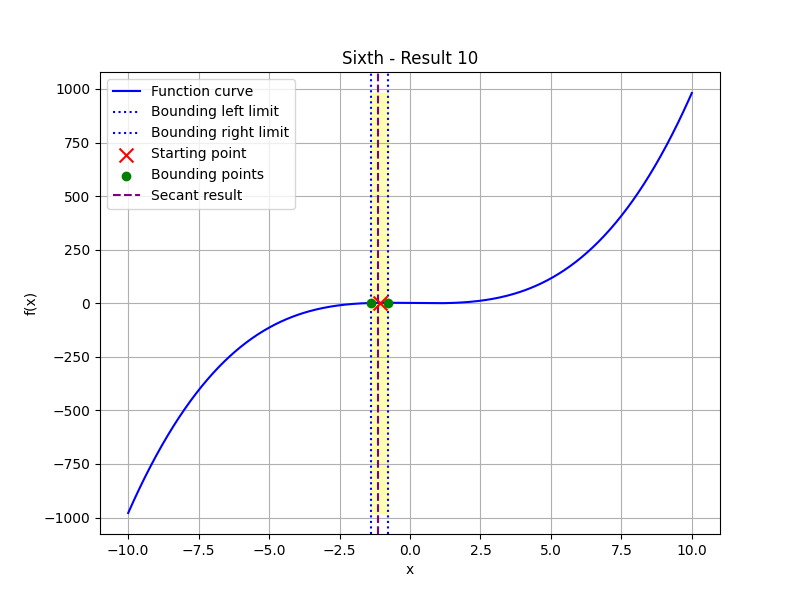
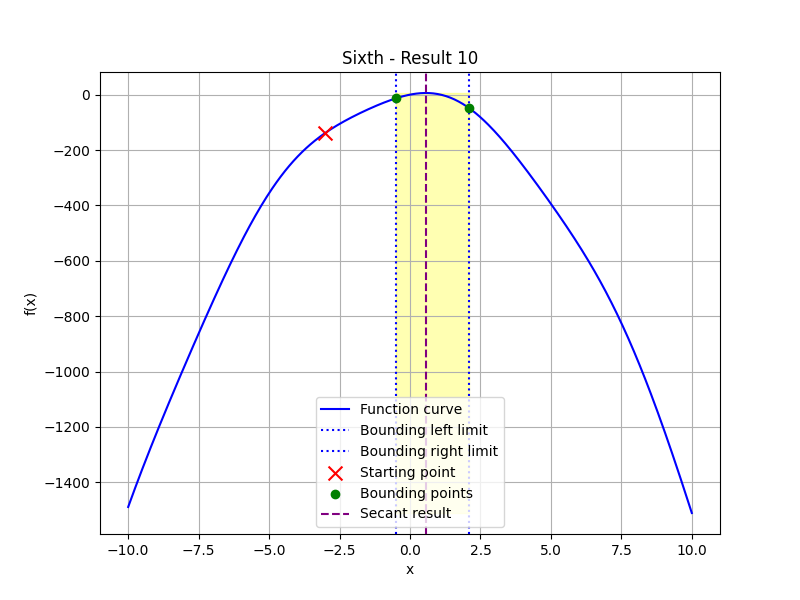
Final

diff --git a/testtrajectory.py b/testtrajectory.py
@@ -1,0 +1,165 @@
+import numpy as np
+import matplotlib.pyplot as plt
+import random
+import os
+
+# Function to minimize/maximize
+def func(x, func_id):
+    if func_id == 1:
+        return -((2 * x - 5) ** 4) + ((x ** 2 - 1) ** 3)
+    elif func_id == 2:
+        return -(8 + x ** 3 - 2 * x - 2 * np.exp(x))
+    elif func_id == 3:
+        return -(4 * x * np.sin(x))
+    elif func_id == 4:
+        return 2 * (x - 3) ** 2 + np.exp(0.5 * x ** 2)
+    elif func_id == 5:
+        return x ** 2 - 10 * np.exp(0.1 * x)
+    elif func_id == 6:
+        return -(20 * np.sin(x) - 15 * x ** 2)
+
+# Derivative of the function (for secant method)
+def func_derivative(x, func_id):
+    if func_id == 1:
+        return -8 * ((2 * x - 5) ** 3) + 6 * x * ((x ** 2 - 1) ** 2)
+    elif func_id == 2:
+        return -3 * x ** 2 + 2 + 2 * np.exp(x)
+    elif func_id == 3:
+        return -4 * np.sin(x) - 4 * x * np.cos(x)
+    elif func_id == 4:
+        return 4 * (x - 3) + x * np.exp(0.5 * x ** 2)
+    elif func_id == 5:
+        return 2 * x - np.exp(0.1 * x)
+    elif func_id == 6:
+        return -20 * np.cos(x) + 30 * x
+
+# Bounding Phase Method
+def bounding_phase(lb, ub, delta):
+    x = random.uniform(lb, ub)  # Initial random point
+    print(f"Random starting point: {x}")
+
+    dx = delta
+    x_lb = max(x - dx, lb)
+    x_ub = min(x + dx, ub)
+    f_x = func(x, func_id)
+    f_x_lb = func(x_lb, func_id)
+    f_x_ub = func(x_ub, func_id)
+    k = 0
+
+    while x_ub <= ub and x_lb >= lb:
+        dx = abs(dx) if (f_x <= f_x_lb and f_x >= f_x_ub) else -abs(dx)
+
+        k += 1
+        x_new = x + (2 ** k) * dx
+        if x_new > ub:
+            x_new = ub
+        if x_new < lb:
+            x_new = lb
+
+        if func(x_new, func_id) > f_x:
+            return x, x_new
+
+        x = x_new
+        x_ub = min(x + abs(dx), ub)
+        x_lb = max(x - abs(dx), lb)
+        f_x = func(x, func_id)
+        f_x_lb = func(x_lb, func_id)
+        f_x_ub = func(x_ub, func_id)
+
+    return x, x
+
+# Secant Method
+def secant_method(x1, x2, epsilon):
+    iterations = []
+    z = None
+    while True:
+        z = x2 - func_derivative(x2, func_id) / ((func_derivative(x2, func_id) - func_derivative(x1, func_id)) / (x2 - x1))
+        iterations.append((x1, x2, z))
+
+        if abs(func_derivative(z, func_id)) <= epsilon:
+            break
+
+        if func_derivative(z, func_id) < 0:
+            x1 = z
+        else:
+            x2 = z
+    
+    return z, iterations
+
+# Helper function to extend line till it intersects the x-axis
+def extend_to_x_axis(x1, y1, x2, y2):
+    if x1 == x2:  # Avoid division by zero
+        return x1
+    m = (y2 - y1) / (x2 - x1)  # Slope of the line
+    c = y1 - m * x1  # y = mx + c
+    return -c / m  # Intersection point with x-axis (y = 0)
+
+# Plot function and method points
+def plot_bounding_and_secant(func_id, lb, ub, delta, epsilon):
+    x = np.linspace(lb, ub, 400)
+    y = func(x, func_id)
+    
+    # Plot the function
+    fig, ax = plt.subplots()
+    ax.plot(x, y, label='f(x)', color='blue')
+    
+    # Perform bounding phase method
+    x1, x2 = bounding_phase(lb, ub, delta)
+    ax.scatter([x1, x2], [func(x1, func_id), func(x2, func_id)], color='red', marker='o', label='Bounding Phase Points')
+    print(f"Bounding phase result: [{x1}, {x2}]")
+    
+    # Perform secant method
+    result, iterations = secant_method(x1, x2, epsilon)
+
+    # Plot secant method progress
+    for i, (x1_i, x2_i, z_i) in enumerate(iterations):
+        # Plot the secant line between x1 and x2
+        ax.plot([x1_i, x2_i], [func(x1_i, func_id), func(x2_i, func_id)], 'ro--', label=f'Secant iteration {i+1}' if i == 0 else "")
+        
+        # Find the intersection of the secant line with the x-axis
+        intersection = extend_to_x_axis(x1_i, func(x1_i, func_id), x2_i, func(x2_i, func_id))
+        
+        # Plot the intersection point on the x-axis
+        ax.scatter([intersection], [0], color='green', marker='x', s=100, label=f'z_{i+1} on x-axis')
+        
+        # Draw a vertical line from the intersection to the curve
+        ax.plot([intersection, intersection], [0, func(intersection, func_id)], 'g--')
+        ax.scatter([intersection], [func(intersection, func_id)], color='green', marker='x', s=100)
+
+    # Final point
+    ax.scatter([result], [func(result, func_id)], color='purple', marker='*', s=150, label='Final Secant Result')
+
+    # Improve readability by limiting the number of legends and avoiding overlap
+    handles, labels = ax.get_legend_handles_labels()
+    unique_labels = list(dict.fromkeys(labels))  # Remove duplicate labels
+    ax.legend(handles[:len(unique_labels)], unique_labels)
+
+    ax.set_title(f'Bounding Phase & Secant Method for Function {func_id}')
+    ax.set_xlabel('x')
+    ax.set_ylabel('f(x)')
+    plt.axhline(0, color='black', lw=0.5, ls='--')  # Add x-axis line
+    plt.axvline(0, color='black', lw=0.5, ls='--')  # Add y-axis line
+    plt.savefig(f'plots/Function_{func_id}.png')
+    plt.close()
+
+# Create a directory for saving plots
+if not os.path.exists('plots'):
+    os.makedirs('plots')
+
+# Parameters for the methods
+delta = 0.5  # Step size for bounding phase
+epsilon = 1e-6  # Convergence threshold for secant method
+
+# List of function bounds
+function_bounds = [
+    (-10, 0),    # Bounds for Function 1
+    (-2, 1),     # Bounds for Function 2
+    (0.5, np.pi), # Bounds for Function 3
+    (-2, 3),     # Bounds for Function 4
+    (-6, 6),     # Bounds for Function 5
+    (-4, 4)      # Bounds for Function 6
+]
+
+# Iterate through each function and plot results
+for func_id, (lb, ub) in enumerate(function_bounds, start=1):
+    plot_bounding_and_secant(func_id, lb, ub, delta, epsilon)

diff --git a/Trajectory.py b/Trajectory.py
@@ -1,0 +1,125 @@
+import numpy as np
+import matplotlib.pyplot as plt
+import random
+
+# Function to minimize/maximize
+def func(x):
+    return -(20 * np.sin(x) - 15 * x ** 2)
+
+# Derivative of the function (for secant method)
+def func_derivative(x):
+    return -20 * np.cos(x) + 30 * x
+
+# Bounding Phase Method
+def bounding_phase(lb, ub, delta):
+    x = random.uniform(lb, ub)  # Initial random point
+    print(f"Random starting point: {x}")
+    
+    dx = delta
+    x_lb = max(x - dx, lb)
+    x_ub = min(x + dx, ub)
+    f_x = func(x)
+    f_x_lb = func(x_lb)
+    f_x_ub = func(x_ub)
+    k = 0
+
+    while x_ub <= ub and x_lb >= lb:
+        dx = abs(dx) if (f_x <= f_x_lb and f_x >= f_x_ub) else -abs(dx)
+
+        k += 1
+        x_new = x + (2 ** k) * dx
+        if x_new > ub:
+            x_new = ub
+        if x_new < lb:
+            x_new = lb
+
+        if func(x_new) > f_x:
+            return x, x_new
+
+        x = x_new
+        x_ub = min(x + abs(dx), ub)
+        x_lb = max(x - abs(dx), lb)
+        f_x = func(x)
+        f_x_lb = func(x_lb)
+        f_x_ub = func(x_ub)
+
+    return x, x
+
+# Secant Method
+def secant_method(x1, x2, epsilon):
+    iterations = []
+    z = None
+    while True:
+        z = x2 - func_derivative(x2) / ((func_derivative(x2) - func_derivative(x1)) / (x2 - x1))
+        iterations.append((x1, x2, z))
+
+        if abs(func_derivative(z)) <= epsilon:
+            break
+
+        if func_derivative(z) < 0:
+            x1 = z
+        else:
+            x2 = z
+    
+    return z, iterations
+
+# Helper function to extend line till it intersects the x-axis
+def extend_to_x_axis(x1, y1, x2, y2):
+    if x1 == x2:  # Avoid division by zero
+        return x1
+    m = (y2 - y1) / (x2 - x1)  # Slope of the line
+    c = y1 - m * x1  # y = mx + c
+    return -c / m  # Intersection point with x-axis (y = 0)
+
+# Plot function and method points
+def plot_bounding_and_secant(lb, ub, delta, epsilon):
+    x = np.linspace(lb-10, ub+10, 400)
+    y = func(x)
+    
+    # Plot the function
+    fig, ax = plt.subplots()
+    ax.plot(x, y, label='f(x)', color='blue')
+    
+    # Perform bounding phase method
+    x1, x2 = bounding_phase(lb, ub, delta)
+    ax.scatter([x1, x2], [func(x1), func(x2)], color='red', marker='o', label='Bounding Phase Points')
+    print(f"Bounding phase result: [{x1}, {x2}]")
+    
+    # Perform secant method
+    result, iterations = secant_method(x1, x2, epsilon)
+
+    # Plot secant method progress
+    for i, (x1_i, x2_i, z_i) in enumerate(iterations):
+        # Plot the secant line between x1 and x2
+        ax.plot([x1_i, x2_i], [func(x1_i), func(x2_i)], 'ro--', label=f'Secant iteration {i+1}' if i == 0 else "")
+        
+        # Find the intersection of the secant line with the x-axis
+        intersection = extend_to_x_axis(x1_i, func(x1_i), x2_i, func(x2_i))
+        
+        # Plot the intersection point on the x-axis
+        ax.scatter([intersection], [0], color='green', marker='x', s=100, label=f'z_{i+1} on x-axis')
+        
+        # Draw a vertical line from the intersection to the curve
+        ax.plot([intersection, intersection], [0, func(intersection)], 'g--')
+        ax.scatter([intersection], [func(intersection)], color='black', marker='+', s=100)
+
+    # Final point
+    ax.scatter([result], [func(result)], color='purple', marker='*', s=150, label='Final Secant Result')
+
+    # Improve readability by limiting the number of legends and avoiding overlap
+    handles, labels = ax.get_legend_handles_labels()
+    unique_labels = list(dict.fromkeys(labels))  # Remove duplicate labels
+    ax.legend(handles[:len(unique_labels)], unique_labels)
+
+    ax.set_title('Bounding Phase & Secant Method with Extended Lines')
+    ax.set_xlabel('x')
+    ax.set_ylabel('f(x)')
+    plt.show()
+
+# Example usage
+lb = -4  # Lower bound
+ub = 4  # Upper bound
+delta = 0.5  # Step size for bounding phase
+epsilon = 1e-6  # Convergence threshold for secant method
+
+plot_bounding_and_secant(lb, ub, delta, epsilon)

diff --git a/Plotting.py b/Plotting.py
@@ -105,23 +105,19 @@ functions = {
         ],
     },
     "Sixth": {
-        "func": lambda x: x**3 - 2 * x + 1,
-        "bounds": [(-2, 2)],
+        "func": lambda x: 20 * np.sin(x) - 15 * x**2,
+        "bounds": [(-4, 4)],
         "results": [
-            {"start": -1.94707, "bounding": [-2.46707, -1.42707], "secant": -1.52707},
-            {
-                "start": -0.368493,
-                "bounding": [-1.56849, -0.338493],
-                "secant": -0.509993,
-            },
-            {"start": -1.02829, "bounding": [-1.43829, -0.858293], "secant": -1.15829},
-            {"start": 0.182569, "bounding": [-0.318431, -0.258569], "secant": -0.30957},
-            {"start": -0.84562, "bounding": [-1.34562, -0.72562], "secant": -1.07562},
-            {"start": 1.23712, "bounding": [0.73712, 1.65712], "secant": 1.45712},
-            {"start": 1.17312, "bounding": [0.67312, 1.59312], "secant": 1.41712},
-            {"start": -0.89412, "bounding": [-1.39412, -0.79412], "secant": -1.09412},
-            {"start": -1.02912, "bounding": [-1.32912, -0.72912], "secant": -1.07912},
-            {"start": -1.07812, "bounding": [-1.37812, -0.77812], "secant": -1.12712},
+            {"start": 0.90752, "bounding": [0.60752, 0.28752], "secant": 0.563569},
+            {"start": 2.99661, "bounding": [0.456612, 3.01661], "secant": 0.563568},
+            {"start": 3.67724, "bounding": [1.13724, -1.42276], "secant": 0.563569},
+            {"start": -1.13372, "bounding": [0.126279, 1.40628], "secant": 0.563568},
+            {"start": 2.54538, "bounding": [0.00538021, 2.56538], "secant": 0.563569},
+            {"start": 3.97055, "bounding": [1.43055, -1.12945], "secant": 0.563569},
+            {"start": 2.31539, "bounding": [1.05539, -0.224614], "secant": 0.563568},
+            {"start": -1.38793, "bounding": [1.15207, -1.40793], "secant": 0.563569},
+            {"start": -0.8569, "bounding": [0.4031, 1.6831], "secant": 0.563568},
+            {"start": -3.02056, "bounding": [-0.480556, 2.07944], "secant": 0.563569},
         ],
     },
 }

diff --git a/Final.cpp b/Final.cpp
@@ -101,7 +101,7 @@ int main()
     cin >> epsilon >> delta;
 
     // Perform 10 runs of bounding phase and secant method
-    for (int i = 1; i <= 1; i++)
+    for (int i = 1; i <= 10; i++)
     {
         cout << "Run " << i << " ->" << endl;
 

diff --git a/tempCodeRunnerFile.py b/tempCodeRunnerFile.py
@@ -1,0 +1,2 @@
+
+epsilon = 1e-6  # Convergence threshold for secant method
